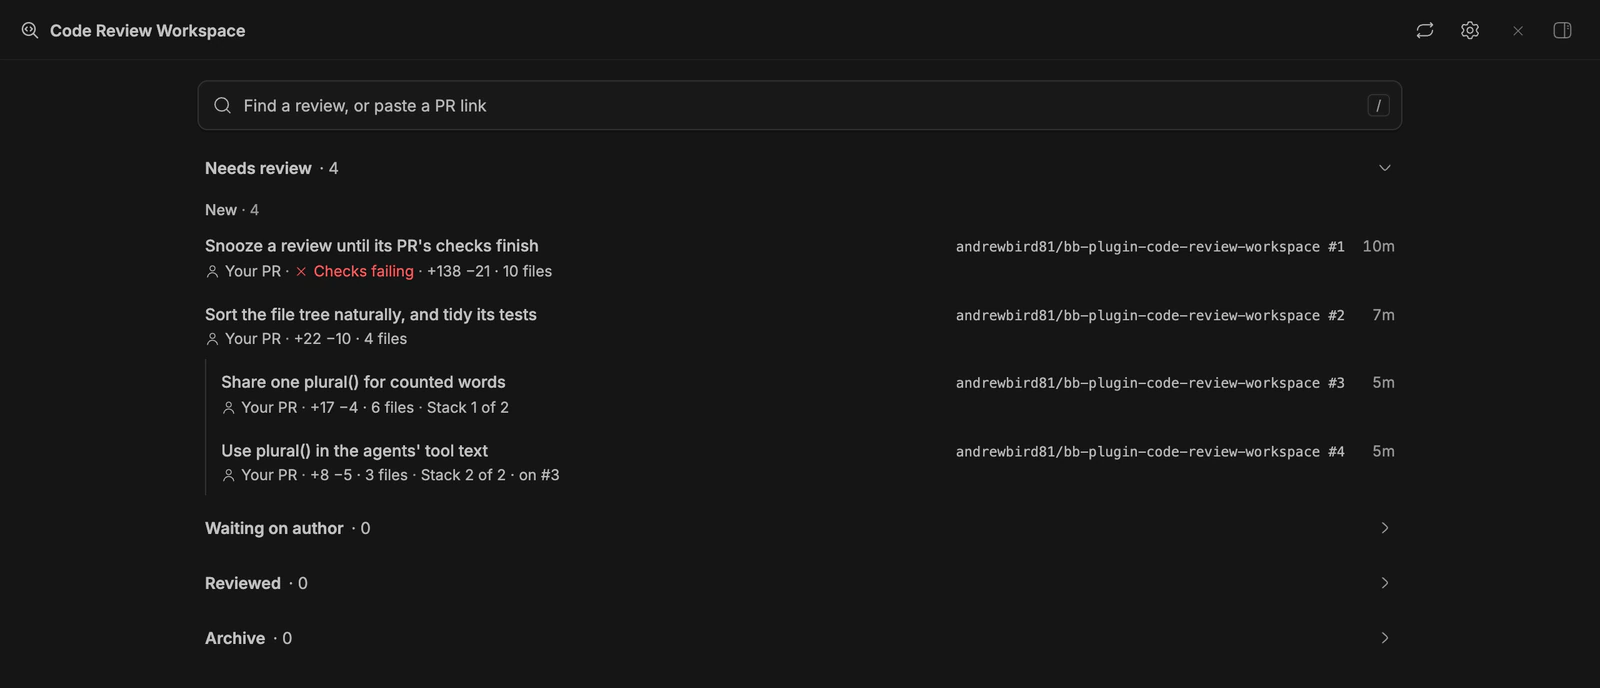
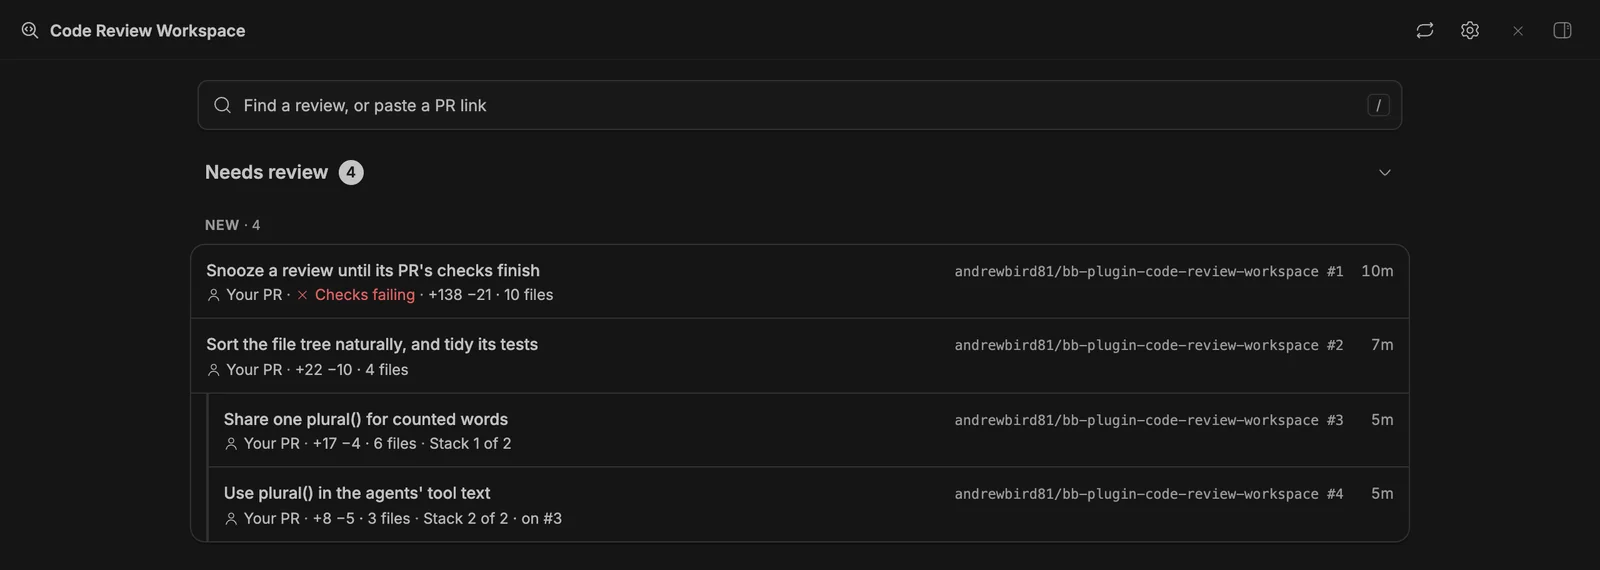
Set All reviews' rows apart in cards, and make its sections and parts read as headings
Each part's reviews (Back to you, New, Team requests), or a section's, are one card with a hairline between rows, a stack keeping its left rule inside it. Section headings are a size larger with their count in a badge, filled on Needs review while anything needs you; parts are small capitals, like Finish review's. The repository and number step back a tier so the title leads. The README's All reviews screenshot shows the new list.

diff --git a/components/inbox/Inbox.tsx b/components/inbox/Inbox.tsx
@@ -20,7 +20,7 @@ import { Icon } from "../ui/icon";
 import { Skeleton } from "../ui/skeleton";
 import { FirstRun } from "./FirstRun";
 import { InboxRow } from "./InboxRow";
-import { InboxPart, InboxSection } from "./InboxSection";
+import { InboxPart, InboxSection, ROWS_CARD } from "./InboxSection";
 import { ListTitleBar } from "./ListTitleBar";
 import { Omnibox } from "./Omnibox";
 import { TOUCH_CONTROL } from "../touch";
@@ -235,8 +235,8 @@ export function Inbox() {
   const open = (targetKey: string) => navigate.toPluginPanel("review", { subPath: targetKey });
   const row = (review: ReviewItem) => <li key={review.targetKey}><InboxRow review={review} pinnable={pinnable} short={short} onOpen={() => open(review.targetKey)} onChanged={relist} /></li>;
   // A list per section or part, so a screen reader says how many rows it holds; a stack is one item, its own list.
-  const rows = (list: ReviewItem[]) => <ul>{withStacks(list).map((group) => group.length === 1 ? row(group[0]!)
-    : <li key={group[0]!.targetKey}><div role="group" aria-label={`Stack of ${group[0]!.stack!.members.length} in ${group[0]!.repo}`} className="ml-3 border-l border-border"><ul>{group.map(row)}</ul></div></li>)}</ul>;
+  const rows = (list: ReviewItem[]) => <ul className={ROWS_CARD}>{withStacks(list).map((group) => group.length === 1 ? row(group[0]!)
+    : <li key={group[0]!.targetKey}><div role="group" aria-label={`Stack of ${group[0]!.stack!.members.length} in ${group[0]!.repo}`} className="ml-3 border-l-2 border-border"><ul className="divide-y divide-border">{group.map(row)}</ul></div></li>)}</ul>;
   const omnibox = <Omnibox query={query} onQuery={setQuery} reviews={reviews} onOpen={open} inputRef={findBox} onFocusChange={setBoxFocused}
     placeholder={firstRun ? "Paste a GitHub PR link to review it" : compact ? "Find or paste a PR link" : "Find a review, or paste a PR link"}
     onCancel={phoneBox ? closeSearch : undefined} trailing={searchInline && ownControls ? <ListTitleBar placement="page" /> : undefined} />;
@@ -255,7 +255,7 @@ export function Inbox() {
         {!syncError && problem && <p role="status" className={cn("mx-1.5 mb-2 flex items-start gap-2 rounded-lg border border-warning/20 bg-warning/10 px-3 py-2 text-sm text-warning-text", firstRun && "mt-4")}><Icon name="AlertCircle" className="mt-0.5 size-4 shrink-0" aria-hidden />{problem}</p>}
         {syncError && <p role="alert" className={cn("mx-1.5 mb-2 flex items-start gap-2 rounded-lg border border-destructive/20 bg-destructive/10 px-3 py-2 text-sm text-destructive-text", firstRun && "mt-4")}><Icon name="AlertCircle" className="mt-0.5 size-4 shrink-0" aria-hidden />Couldn’t refresh GitHub status. Saved reviews are still available; try Refresh again.</p>}
         {firstRun ? <div className="px-2.5 pt-6"><FirstRun omnibox={omnibox} syncing={refreshing} /></div> : <>
-          {loading ? <div role="status" aria-busy="true" className="space-y-1 pt-2"><span className="sr-only">Loading reviews…</span>
+          {loading ? <div role="status" aria-busy="true" className={cn(ROWS_CARD, "mt-2")}><span className="sr-only">Loading reviews…</span>
             {Array.from({ length: 6 }).map((_, i) => <div key={i} className="space-y-2 px-3 py-3"><Skeleton className="h-3.5" style={{ width: `${62 - i * 6}%` }} /><Skeleton className="h-3 w-48" /></div>)}
           </div>
             : loadError ? <div role="alert" className="px-4 py-10 text-center"><h2 className="font-medium">Couldn’t load your reviews</h2><p className="mt-2 text-sm text-muted-foreground">Your saved reviews haven’t been removed. Check the connection and try again.</p><Button variant="outline" className={cn("mt-4", TOUCH_CONTROL)} onClick={() => setReload((n) => n + 1)}>Try again</Button></div>
@@ -263,17 +263,17 @@ export function Inbox() {
               <h2 className="text-sm font-medium text-foreground">No reviews match “{query.trim()}”</h2>
               <p className="mt-1 text-sm text-muted-foreground">Try fewer words, or paste a PR link to review it.</p>
             </div>)
-            : <div className="space-y-2 pt-1">
+            : <div className="space-y-1 pt-1">
               {SECTIONS.map(({ group, title }) => {
                 const list = sections[group];
                 if (!list.length && (group !== "needs" || searching)) return null;
-                return <InboxSection key={group} title={title} count={list.length} collapsed={isCollapsed(group)} onToggle={() => toggle(group)} short={short} stickyTop={phoneBox ? "top-14 pointer-coarse:top-[60px]" : undefined}>
+                return <InboxSection key={group} title={title} count={list.length} urgent={group === "needs"} collapsed={isCollapsed(group)} onToggle={() => toggle(group)} short={short} stickyTop={phoneBox ? "top-14 pointer-coarse:top-[60px]" : undefined}>
                   {group !== "needs" ? rows(list)
                     : list.length ? NEEDS_PARTS.map(({ part, title: partTitle }) => {
                       const partRows = list.filter((review) => needsGroup(review) === part);
                       return partRows.length > 0 && <InboxPart key={part} title={partTitle} count={partRows.length} short={short}>{rows(partRows)}</InboxPart>;
                     })
-                    : <p className="flex items-center gap-2 px-3 py-2.5 text-sm text-muted-foreground"><Icon name="CircleCheck" className="size-4 shrink-0 text-diff-added" aria-hidden />
+                    : <p className="flex items-center gap-2 rounded-xl border border-dashed border-border px-3 py-3 text-sm text-muted-foreground"><Icon name="CircleCheck" className="size-4 shrink-0 text-diff-added" aria-hidden />
                       Nothing needs you right now{waiting > 0 && ` · ${waiting} waiting on ${waiting === 1 ? "an author" : "authors"}`}
                     </p>}
                 </InboxSection>;

diff --git a/components/inbox/InboxRow.tsx b/components/inbox/InboxRow.tsx
@@ -61,25 +61,25 @@ export function InboxRow({ review, pinnable, short = false, onOpen, onChanged }:
   const quick = "size-6 px-0 text-muted-foreground hover:text-foreground aria-disabled:opacity-50";
   return (
     <div ref={rowRef} className="group/row relative flex min-w-0 items-center hover:bg-state-hover has-[[data-row]:focus-visible]:bg-state-hover">
-      <button type="button" data-row onClick={onOpen} className={cn("min-w-0 flex-1 px-3 text-left focus-visible:outline-none focus-visible:ring-2 focus-visible:ring-inset focus-visible:ring-ring", short ? "py-1.5" : "py-2 pointer-coarse:py-3")}>
+      <button type="button" data-row onClick={onOpen} className={cn("min-w-0 flex-1 px-3 text-left focus-visible:outline-none focus-visible:ring-2 focus-visible:ring-inset focus-visible:ring-ring", short ? "py-1.5" : "py-2.5 pointer-coarse:py-3")}>
         <span className="flex min-w-0 items-baseline gap-3">
           <span id={titleId} className="min-w-0 flex-1 truncate text-sm font-medium leading-5 text-foreground">
             <InlineCode text={title} />
             {pinnable && review.pinnedAt && <Icon name="Pin" className="ml-1.5 inline size-3.5 align-[-2px] text-muted-foreground" aria-label="Pinned" />}
           </span>
-          {where && <span className="hidden shrink-0 font-mono text-[11px] text-muted-foreground @min-[720px]/inbox:inline">{where}</span>}
+          {where && <span className="hidden shrink-0 font-mono text-[11px] text-subtle-foreground @min-[720px]/inbox:inline">{where}</span>}
           {when && <span className="w-7 shrink-0 text-right text-xs tabular-nums text-subtle-foreground">{when}</span>}
         </span>
         {/* Narrow, where the PR is follows its status, which comes first when there's no room for both. */}
-        <StatusLine parts={statusLine(review, { knobs: { unattendedAgents } })} after={where ? { content: <span className="font-mono text-[11px]">{where}</span>, className: "@min-[720px]/inbox:hidden" } : undefined}
+        <StatusLine parts={statusLine(review, { knobs: { unattendedAgents } })} after={where ? { content: <span className="font-mono text-[11px] text-subtle-foreground">{where}</span>, className: "@min-[720px]/inbox:hidden" } : undefined}
           className="mt-0.5 text-xs leading-4 text-muted-foreground" />
       </button>
       {/* A fine pointer's quick actions show over the end of the status line, clear of the line above, while the row is
           hovered or focused, and stay while one's menu is open; a touch screen keeps Review actions, 44px, beside the
           row. The strip hides the status line under it, with the row's tint layered over, as the row has it. */}
-      <div className={cn("flex shrink-0 items-center gap-0.5 pr-1.5 pointer-fine:absolute pointer-fine:right-1.5 pointer-fine:rounded-md pointer-fine:bg-background pointer-fine:pr-0 pointer-fine:opacity-0 pointer-fine:group-hover/row:opacity-100 pointer-fine:group-focus-within/row:opacity-100 pointer-fine:has-[[aria-expanded=true]]:opacity-100",
+      <div className={cn("flex shrink-0 items-center gap-0.5 pr-1.5 pointer-fine:absolute pointer-fine:right-1.5 pointer-fine:rounded-md pointer-fine:bg-card pointer-fine:pr-0 pointer-fine:opacity-0 pointer-fine:group-hover/row:opacity-100 pointer-fine:group-focus-within/row:opacity-100 pointer-fine:has-[[aria-expanded=true]]:opacity-100",
         "pointer-fine:group-hover/row:bg-[linear-gradient(var(--state-hover),var(--state-hover))] pointer-fine:group-has-[[data-row]:focus-visible]/row:bg-[linear-gradient(var(--state-hover),var(--state-hover))]",
-        short ? "pointer-fine:bottom-0" : "pointer-fine:bottom-0.5")}>
+        short ? "pointer-fine:bottom-0" : "pointer-fine:bottom-1")}>
         <div className="flex items-center gap-0.5 pointer-coarse:hidden">
           {snoozable && <Popover open={snoozeOpen} onOpenChange={setSnoozeOpen}>
             <Hint label="Snooze">

diff --git a/components/inbox/InboxSection.tsx b/components/inbox/InboxSection.tsx
@@ -6,11 +6,13 @@ import { Icon } from "../ui/icon";
 /**
  * One of the inbox's sections, such as Needs review: a header with its count that collapses it, which sticks while its
  * rows scroll under it (`stickyTop` where something sticks above it). `short`: a page with little height, where the
- * header keeps to 36px inside a 44px target on touch.
+ * header keeps to 36px inside a 44px target on touch. `urgent`: the count is what needs you, filled like the title
+ * bar's needs-you badge.
  */
-export function InboxSection({ title, count, collapsed, onToggle, stickyTop, short = false, children }: {
+export function InboxSection({ title, count, urgent = false, collapsed, onToggle, stickyTop, short = false, children }: {
   title: string;
   count: number;
+  urgent?: boolean;
   collapsed: boolean;
   onToggle(): void;
   stickyTop?: string;
@@ -22,23 +24,30 @@ export function InboxSection({ title, count, collapsed, onToggle, stickyTop, sho
     <section aria-label={title} className="min-w-0">
       <h2 className={cn("sticky z-10 bg-background", stickyTop ?? "top-0")}>
         <button type="button" aria-expanded={!collapsed} aria-controls={bodyId} onClick={onToggle}
-          className={cn("group/section flex w-full items-center gap-1.5 rounded-md px-3 text-left text-sm font-semibold text-foreground hover:bg-state-hover focus-visible:outline-none focus-visible:ring-2 focus-visible:ring-inset focus-visible:ring-ring", `h-9 ${short ? TOUCH_COMPACT : TOUCH_CONTROL}`)}>
+          className={cn("group/section flex w-full items-center gap-2 rounded-md px-3 text-left text-base font-semibold text-foreground hover:bg-state-hover focus-visible:outline-none focus-visible:ring-2 focus-visible:ring-inset focus-visible:ring-ring", short ? `h-9 ${TOUCH_COMPACT}` : `h-11 ${TOUCH_CONTROL}`)}>
           {title}
-          <span className="font-normal tabular-nums text-muted-foreground"><span aria-hidden>· </span>{count}</span>
+          <span className={cn("min-w-5 rounded-full px-1.5 text-center text-xs font-semibold leading-5 tabular-nums", urgent && count > 0 ? "bg-primary text-primary-foreground" : "bg-muted text-muted-foreground")}>
+            <span className="sr-only">, </span>{count}
+          </span>
           <Icon name="ChevronDown" className={cn("ml-auto size-4 text-subtle-foreground transition-transform duration-150 motion-reduce:transition-none", collapsed && "-rotate-90")} aria-hidden />
         </button>
       </h2>
-      {!collapsed && <div id={bodyId}>{children}</div>}
+      {!collapsed && <div id={bodyId} className={short ? "pb-2" : "pb-4"}>{children}</div>}
     </section>
   );
 }
 
-/** A part of a section, such as Back to you in Needs review: a plain label with its count, then its rows. */
+/** A part of a section, such as Back to you in Needs review: a small-capitals label with its count, then its rows. */
 export function InboxPart({ title, count, short = false, children }: { title: string; count: number; short?: boolean; children: ReactNode }) {
   return (
     <div role="group" aria-label={title}>
-      <h3 className={cn("px-3 pb-0.5 text-xs font-medium text-muted-foreground", short ? "pt-1" : "pt-2")}>{title} <span className="font-normal tabular-nums text-subtle-foreground"><span aria-hidden>· </span>{count}</span></h3>
+      <h3 className={cn("px-3 pb-1.5 text-[11px] font-semibold uppercase tracking-wider text-subtle-foreground", short ? "pt-2" : "pt-3")}>
+        {title} <span className="font-normal tabular-nums tracking-normal"><span aria-hidden>· </span>{count}</span>
+      </h3>
       {children}
     </div>
   );
 }
+
+/** A section's or part's rows as one card, a hairline between rows. */
+export const ROWS_CARD = "overflow-hidden rounded-xl border border-border bg-card shadow-xs divide-y divide-border";

diff --git a/components/inbox.test.tsx b/components/inbox.test.tsx
@@ -67,7 +67,10 @@ test("reviews are in sections, not tabs: Needs review shows, the rest start clos
   ]);
   await slot.findByText("Pending change");
   expect(slot.queryByRole("group", { name: "Filter reviews" })).toBeNull();
-  expect(slot.getAllByRole("heading", { level: 2 }).map((heading) => heading.textContent)).toEqual(["Needs review· 1", "Reviewed· 1", "Archive· 1"]);
+  expect(slot.getAllByRole("heading", { level: 2 }).map((heading) => heading.textContent)).toEqual(["Needs review, 1", "Reviewed, 1", "Archive, 1"]);
+  // What needs you is counted as the title bar's needs-you badge is; the rest quietly.
+  expect(within(slot.getByRole("heading", { name: /^Needs review/ })).getByText("1").className).toContain("bg-primary");
+  expect(within(slot.getByRole("heading", { name: /^Reviewed/ })).getByText("1").className).toContain("bg-muted");
   expect(header("Reviewed").getAttribute("aria-expanded")).toBe("false");
   expect(slot.queryByText("Accepted change")).toBeNull();
   expect(slot.queryByText("Finished change")).toBeNull();
@@ -124,6 +127,7 @@ test("with nothing for you, Needs review says so and how many wait on their auth
     { targetKey: "c", title: "Change Quiet", status: "ready", turn: turn("waiting", "waiting", "Commented") },
   ]);
   expect((await slot.findByText(/^Nothing needs you right now/)).textContent).toBe("Nothing needs you right now · 2 waiting on authors");
+  expect(within(slot.getByRole("heading", { name: /^Needs review/ })).getByText("0").className).not.toContain("bg-primary");
   slot.lifecycle.unmount();
 });
 
@@ -231,7 +235,7 @@ test("the box finds reviews by repository, author, title, or number in every sec
   fireEvent.change(find, { target: { value: "nothing like it" } });
   expect(slot.getByText("No reviews match “nothing like it”")).toBeTruthy();
   fireEvent.change(find, { target: { value: "retries" } });
-  expect(slot.getByRole("heading", { name: /^Reviewed/ }).textContent).toBe("Reviewed· 1");
+  expect(slot.getByRole("heading", { name: /^Reviewed/ }).textContent).toBe("Reviewed, 1");
   // Esc clears it.
   fireEvent.keyDown(find, { key: "Escape" });
   expect((find as HTMLInputElement).value).toBe("");

diff --git a/DESIGN.md b/DESIGN.md
@@ -52,11 +52,11 @@ The frontmatter retains live host token references so light and dark themes rema
 
 ## Typography
 
-Interface text inherits the BB sans family; file paths, repositories, branches, line references, and CLI examples use monospace, with a path's directory dimmed so its file name leads. Agent-written text (the guide's intent, comments, discussions, and assistant answers) renders through BB's Markdown, as in chat; titles and chapter summaries render their `code` spans inline. All reviews has no title of its own: BB's title bar names the page. The Overview's title uses the base size, one step larger where the Overview is at least 640px wide. Review titles and controls predominantly use the small scale, with extra-small metadata and compact 10–11px badges; Finish review's part headings are 11px semibold capitals. Headings rely on medium/semibold weight and modest size changes. Keep explanations readable and reserve truncation for titles and paths with constrained space. A line of facts ([MetaLine](components/MetaLine.tsx)) separates them with "·" and breaks only before one, so a wrapped line starts with it, except before a chip, such as a badge or a branch, where the browser may still break after the dot.
+Interface text inherits the BB sans family; file paths, repositories, branches, line references, and CLI examples use monospace, with a path's directory dimmed so its file name leads. Agent-written text (the guide's intent, comments, discussions, and assistant answers) renders through BB's Markdown, as in chat; titles and chapter summaries render their `code` spans inline. All reviews has no title of its own: BB's title bar names the page. The Overview's title uses the base size, one step larger where the Overview is at least 640px wide. Review titles and controls predominantly use the small scale, with extra-small metadata and compact 10–11px badges; All reviews' section headings use the base size, and its parts' labels, like Finish review's part headings, are 11px semibold capitals. Headings rely on medium/semibold weight and modest size changes. Keep explanations readable and reserve truncation for titles and paths with constrained space. A line of facts ([MetaLine](components/MetaLine.tsx)) separates them with "·" and breaks only before one, so a wrapped line starts with it, except before a chip, such as a badge or a branch, where the browser may still break after the dot.
 
 ## Layout
 
-All reviews is a centered column up to 1024px wide, with 6px padding, 24px where the page is at least 640px wide; it scrolls inside the panel, which BB clips to the window. One find-or-paste box leads it on a wide page; where the page is short of room, as on a phone, ⌕ in BB's title bar opens the box at the top, with Cancel. Then the sections, each a sticky heading with its count and a chevron that collapses it (remembered in this browser): Needs review, open, in three parts under small headings (Back to you, New, Team requests); then Waiting on author, Reviewed, and Archive, closed. A query opens them all. Rows are two lines: the title (with a pin when pinned), the repository and number where the list is at least 720px wide, and the age; then the status line, which leads with why it's yours and adds only what changes the decision to open it, followed by the repository where the list is narrower. A stack's rows sit together, bottom first, behind a left rule. With no reviews, a first-run panel takes the sections' place.
+All reviews is a centered column up to 1024px wide, with 6px padding, 24px where the page is at least 640px wide; it scrolls inside the panel, which BB clips to the window. One find-or-paste box leads it on a wide page; where the page is short of room, as on a phone, ⌕ in BB's title bar opens the box at the top, with Cancel. Then the sections, each a sticky heading with its count in a badge (Needs review's filled while anything needs you, as the title bar's needs-you badge is) and a chevron that collapses it (remembered in this browser): Needs review, open, in three parts under small-capitals labels (Back to you, New, Team requests); then Waiting on author, Reviewed, and Archive, closed. A query opens them all. A part's rows, or a section's, are one card with a hairline between rows. Rows are two lines: the title (with a pin when pinned), the repository and number a tier quieter where the list is at least 720px wide, and the age; then the status line, which leads with why it's yours and adds only what changes the decision to open it, followed by the repository where the list is narrower. A stack's rows sit together, bottom first, behind a left rule inside the card. With nothing for you, Needs review says so in a dashed box. With no reviews, a first-run panel takes the sections' place.
 
 The review workspace fills the panel's height and width, and lays itself out from its own size, never the window's, the user agent, or the orientation ([workspace-layout](lib/workspace-layout.ts), with 16px of hysteresis), in three modes:
 
@@ -78,7 +78,7 @@ The workspace pads by each safe area on its own side (`--gr-safe-*`, from `env(s
 
 ## Elevation & Depth
 
-Thin host borders separate the band, the notices, the sides, and the files. Docked sides sit flush: the navigator on the raised surface, the panel on the background. A side over the code and the phone's sheet are opaque (the host background at full alpha, so a translucent host theme can't show through), with the strongest shadow, over a 40% black scrim. Cards (diff files, comment cards, the chapter intro, settings sections) use the host card surface with a hairline shadow; a comment in the code adds a soft shadow over the code. A file's slim row sticks to the top of the scrolling code. The selection bar, the step bar, and the "need you" pill float on the popover surface with a strong shadow. Button fills respond immediately on hover and transition out over 150ms through the shared motion helper. Sides and sheets slide in over 200ms; nothing slides with reduced motion, drawers included, which open and close in place. The floating review-agent window uses stronger elevation.
+Thin host borders separate the band, the notices, the sides, and the files. Docked sides sit flush: the navigator on the raised surface, the panel on the background. A side over the code and the phone's sheet are opaque (the host background at full alpha, so a translucent host theme can't show through), with the strongest shadow, over a 40% black scrim. Cards (All reviews' groups of rows, diff files, comment cards, the chapter intro, settings sections) use the host card surface with a hairline shadow; a comment in the code adds a soft shadow over the code. A file's slim row sticks to the top of the scrolling code. The selection bar, the step bar, and the "need you" pill float on the popover surface with a strong shadow. Button fills respond immediately on hover and transition out over 150ms through the shared motion helper. Sides and sheets slide in over 200ms; nothing slides with reduced motion, drawers included, which open and close in place. The floating review-agent window uses stronger elevation.
 
 ## Shapes
 

diff --git a/CHANGELOG.md b/CHANGELOG.md
@@ -2,11 +2,20 @@
 
 ## Unreleased
 
-Docs only; the plugin doesn't change.
+**All reviews** is easier to scan: each review stands on its own, and the sections and their parts read as headings.
+
+- A part's reviews (**Back to you**, **New**, **Team requests**), or a section's, sit in one card with a line between them; a stack keeps its left rule inside the card.
+- Section headings are a size larger, with their count in a badge. **Needs review**'s is filled, like the title bar's needs-you badge, while anything needs you.
+- Back to you, New, and Team requests are small capitals, like Finish review's part headings.
+- The repository and number are a tier quieter, so the title leads.
+- "Nothing needs you right now" sits in a dashed box, and the list loads as a card of placeholder rows.
+
+### Docs
 
 - The README shows what the plugin does, a feature at a time with a screenshot, then requirements, a quick start, and moving from Guided Review. The full reference moves to [docs/guide.md](docs/guide.md). It adds Troubleshooting, Uninstall, What the agents can and can't do, and Other settings and defaults, and moves notes for older versions into Upgrading from older versions.
 - Contributor and operator detail moves to [docs/development.md](docs/development.md), [docs/operations.md](docs/operations.md), and [docs/devices.md](docs/devices.md).
 - PRODUCT.md describes the plugin as it is now, and [PLUGIN_OVERVIEW.md](PLUGIN_OVERVIEW.md) is the marketplace overview.
+- The README's All reviews screenshot shows the new list.
 - The plugin's description says "review agent", as the UI does, and `package.json` has keywords. The `code-review-workspace` skill lists every option `bb review comment` takes.
 
 ## 1.1.2 — 2026-10-20
